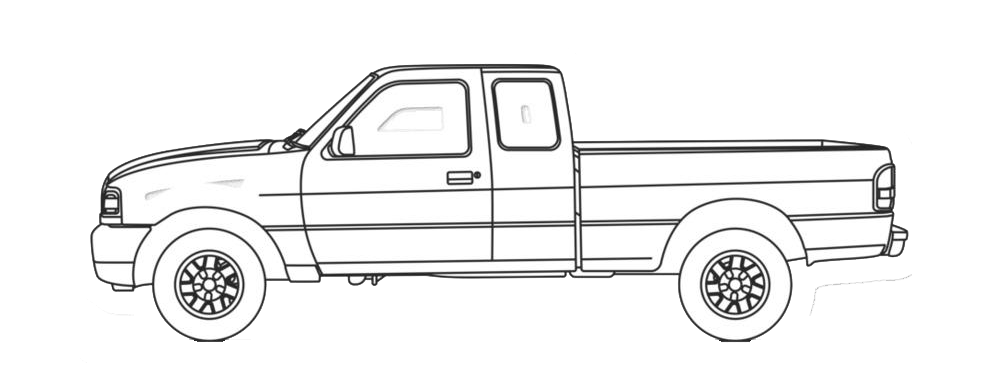
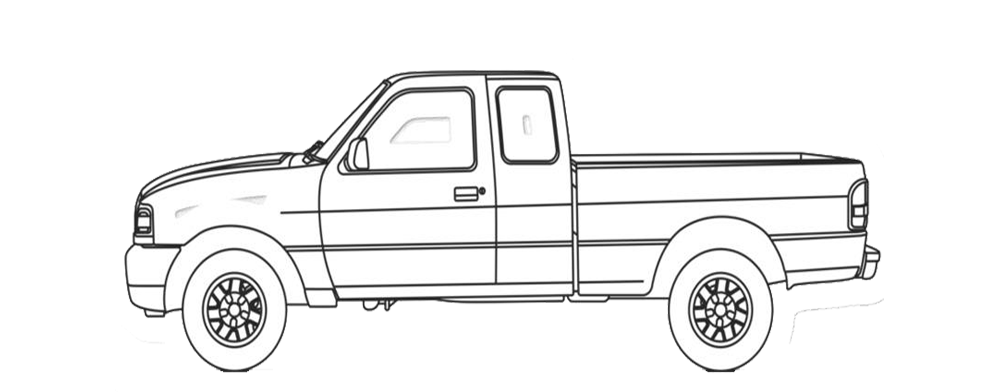
update site bg

Changed region(s): [[0.093, 0.1531, 0.93, 0.949]]

diff --git a/src/camera/styles.js b/src/camera/styles.js
@@ -37,7 +37,7 @@ export const Canvas = styled.canvas`
   ${'' /* border: 2px solid #ffffff; */}
   border-radius: 10px;
 
-  opacity: 0.6;
+  opacity: 0.2;
   background-image: url('${truck_ford}');
   ${'' /* background: url("./assets/images/truck.png") no-repeat center center; */}
   background-repeat: no-repeat;
